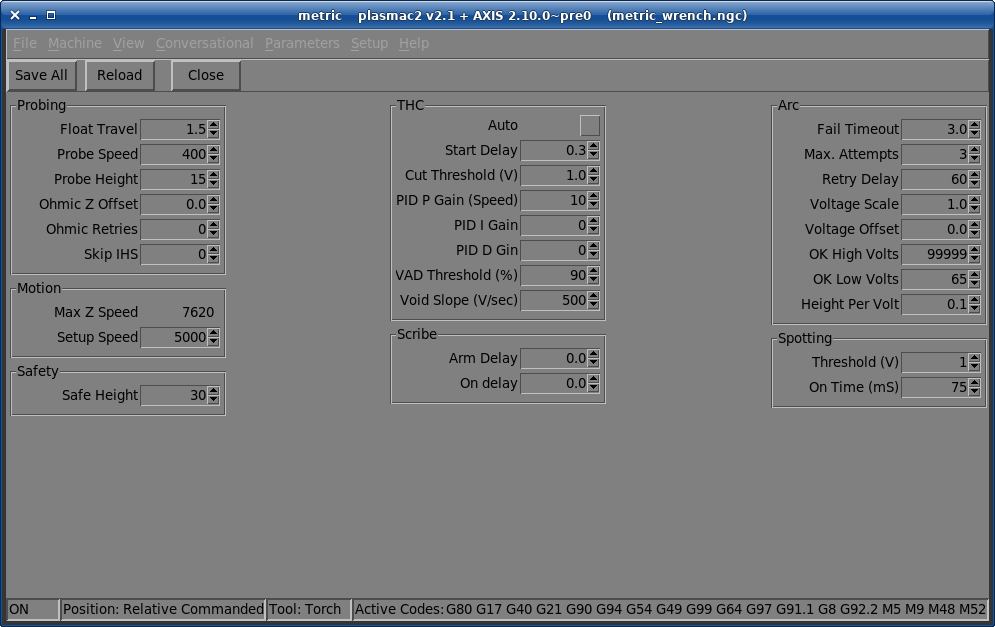
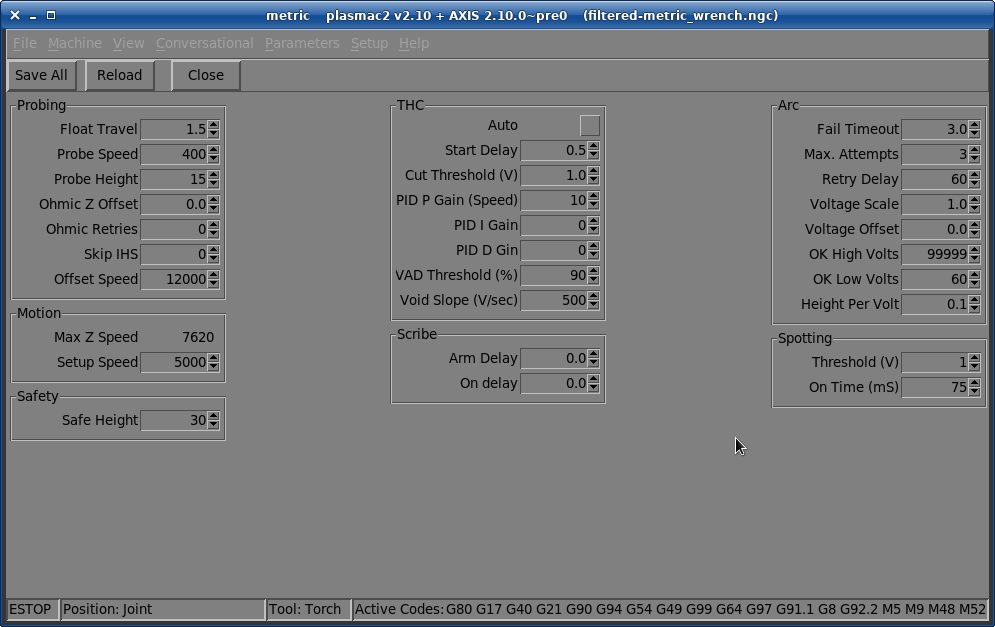
add adjustable x/y axes velocity for offset probing

diff --git a/plasmac2.html b/plasmac2.html
@@ -4,7 +4,7 @@
 <html xmlns="http://www.w3.org/1999/xhtml" xml:lang="en">
 <head>
 <meta http-equiv="Content-Type" content="application/xhtml+xml; charset=UTF-8" />
-<meta name="generator" content="AsciiDoc 9.0.0rc2" />
+<meta name="generator" content="AsciiDoc 10.2.0" />
 <title>plasmac2 User Manual</title>
 <link rel="stylesheet" href="utils/styles/asciidoc.css" type="text/css" />
 
@@ -2019,6 +2019,10 @@ cellspacing="0" cellpadding="4">
 <td align="left" valign="top"><p class="table"><em>Skip IHS</em></p></td>
 <td align="left" valign="top"><p class="table">Set the distance threshold used to determine if an Initial Height Sense (probe) can be skipped for the current cut, see <a href="#plasmac2:ihs-skip">IHS Skip</a>.</p></td>
 </tr>
+<tr>
+<td align="left" valign="top"><p class="table"><em>Offset Speed</em></p></td>
+<td align="left" valign="top"><p class="table">This sets the speed at which the probe will move to the offset position in the X axis and Y axis.</p></td>
+</tr>
 </tbody>
 </table>
 </div>
@@ -3639,7 +3643,8 @@ http://www.gnu.org/software/src-highlite -->
 <div class="paragraph"><p>where <code>n.n</code> is the offset of the probe from the torch center in machine units for the X and Y axes and <code>t.t</code> is the time in seconds to allow for any mechanical deployment of the probe if required.</p></div>
 <div class="paragraph"><p>Each of these parameters is optional and also may appear in any order. If a parameter is not detected then the default is 0.0. There can be no space after the X or Z, lower case is permissible.</p></div>
 <div class="paragraph"><p>When this variable appears in the INI file with either X or Y not equal to zero then plasmac2 will do all <code>Ohmic Probing</code> as <code>Offset Probing</code>.
-When a probe sequence has begun, the <code>plasmac.ohmic-enable</code> pin will be set True causing the probe to extend. When the material is detected the <code>plasmac.ohmic-enable</code> pin will be reset to false causing the probe to retract.</p></div>
+If Offset Probing is valid then the feed rate at which the X and Y axes move to the offset position may be adjusted by the use of the <strong>Offset Speed</strong> parameter in the PROBING frame of the <a href="#plasmac2:parameters-page">PARAMETERS Page</a>.</p></div>
+<div class="paragraph"><p>When a probe sequence has begun, the <code>plasmac.ohmic-enable</code> pin will be set True causing the probe to extend. When the material is detected the <code>plasmac.ohmic-enable</code> pin will be reset to false causing the probe to retract.</p></div>
 <div class="paragraph"><p>The probe will begin moving to the offset position simultaneously with the Z axis moving down to the <code>Probe Height</code>, probing will not commence unless the deployment timer has completed.
 It is required that the <code>Probe Height</code> in the Probing frame of the <a href="#plasmac2:parameters-page">Parameters Page</a> is above the top of the material to ensure that the probe is fully offset to the correct X/Y position before the final vertical probe down movement.</p></div>
 <div class="admonitionblock">
@@ -6218,7 +6223,7 @@ The resulting file which is paced in the users home directory is suitable for at
 <div id="footer">
 <div id="footer-text">
 Last updated
- 2023-08-20 16:00:53 AEST
+ 2023-10-23 16:31:37 AEDT
 </div>
 </div>
 </body>
